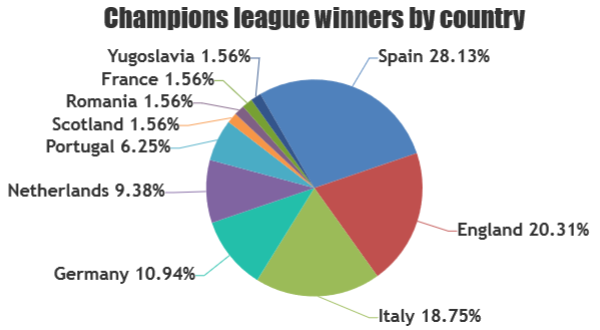
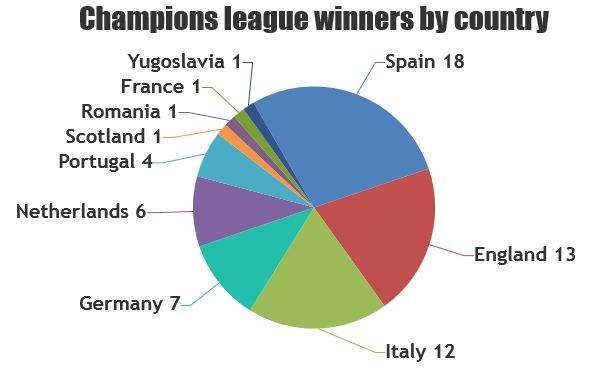
without percent

diff --git a/prepare.js b/prepare.js
@@ -1,23 +1,22 @@
 function prepareData(data) {
-	console.log("perpareData");
-	var map = new Map();
-	var mapResult = new Map();
-	var sum = 0;
-	for (var i = 0; i < data.length; i++) {
-		var wonValue = data[i].won;
-		var countryValue = data[i].country;
-		var value = map.get(countryValue);
-		sum = sum + wonValue;
-		if (value == null) {
-			map.set(countryValue, wonValue);
-		} else {
-			var newValue = value + wonValue;
-			map.set(countryValue, newValue);
-		}
-	}
-	var percent = (100 / sum);
-	map.forEach((value, key, map) => {
-		mapResult.set(key, (value * percent))
-	});
-	return new Map([...mapResult.entries()].sort((a, b) => b[1] - a[1]));
+    console.log("perpareData");
+    var map = new Map();
+    var mapResult = new Map();
+    
+    for (var i = 0; i < data.length; i++) {
+        var wonValue = data[i].won;
+        var countryValue = data[i].country;
+        var value = map.get(countryValue);
+        if (value == null) {
+            map.set(countryValue, wonValue);
+        } else {
+            var newValue = value + wonValue;
+            map.set(countryValue, newValue);
+        }
+    }
+
+    map.forEach((value, key, map) => {
+        mapResult.set(key, value)
+    });
+    return new Map([...mapResult.entries()].sort((a, b) => b[1] - a[1]));
 }

diff --git a/champions-league-winners-by-country.html b/champions-league-winners-by-country.html
@@ -6,14 +6,16 @@
         window.onload = function () {
             var dataPoints = [];
             var chart = new CanvasJS.Chart("chartContainer", {
+                animationEnabled: true,
                 title: {
                     text: "Champions league winners by country"
                 },
                 data: [{
                     indexLabelFontWeight: "bold",
+                    type: "pie",
+                    startAngle: 240,
                     indexLabelFontSize: 20,
-                    indexLabelPlacement: "inside",
-                    type: "doughnut",
+                    indexLabel: "{label} {y}",
                     dataPoints: dataPoints
                 }]
             });
@@ -31,7 +33,6 @@
         }
     </script>
 </head>
-
 <body>
     <br />
     <div id="chartContainer" style="height: 370px; width: 100%;"></div>
@@ -39,5 +40,4 @@
     <script src="https://canvasjs.com/assets/script/jquery-1.11.1.min.js"></script>
     <script src="https://canvasjs.com/assets/script/canvasjs.min.js"></script>
 </body>
-
 </html>
